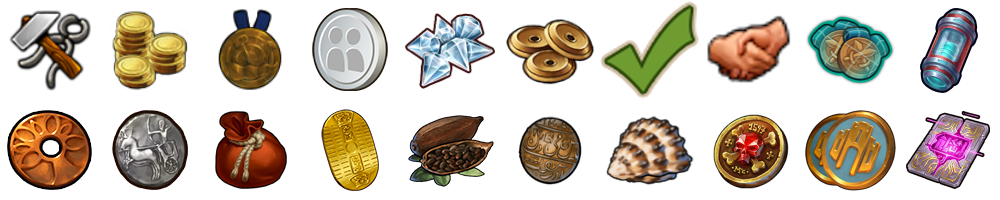
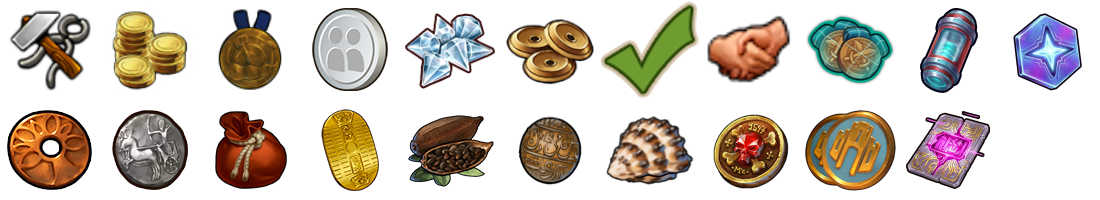
technologies - new tech handling

diff --git a/js/web/technologies/js/technologies.js b/js/web/technologies/js/technologies.js
@@ -289,63 +289,83 @@ let Technologies = {
 
 
     CalcBody: ()=> {
-        let h = [],
-            TechDict = [];
-
-        // Index aufbauen (Namen => Index)
-        for (let i = 1; i < Technologies.AllTechnologies.length; i++) {
-            TechDict[Technologies.AllTechnologies[i]['id']] = i;
-        }
-
-        // Look up researched tech
-        for (let node of Technologies.UnlockedTechnologies.unlockedNodes) {
-            if (!TechDict[node]) continue;
-            Technologies.AllTechnologies[TechDict[node]].isResearched = true;
-            Technologies.AllTechnologies[TechDict[node]]['currentSP'] = Technologies.AllTechnologies[TechDict[node]]['maxSP'];
-        }
-
-        // Teilweise erforscht
-        for (let i = 0; i < Technologies.UnlockedTechnologies['inProgressTechnologies'].length; i++) {
-            let InProgTech = Technologies.UnlockedTechnologies['inProgressTechnologies'][i];
-            let Index = TechDict[InProgTech['tech_id']];
-            Technologies.AllTechnologies[Index]['currentSP'] = InProgTech['currentSP'];
-        }
+        let h = [];
 
         // Count goods
-        let RequiredResources = [],
-            TechCount = 0;
-        for (let i = 1; i < Technologies.AllTechnologies.length; i++) {
-            let Tech = Technologies.AllTechnologies[i];
-            if (Tech['currentSP'] === undefined)
-            	Tech['currentSP'] = 0;
+        let RequiredResources = {},
+            BranchRessourcesMax = {},
+            TechCount = 0,
+            Techs = Object.assign({}, ...Technologies.AllTechnologies.map(x => ({[x.id]: x}))),
+            children = ['root'],
+            i = 0;
+            processedTechs = new Set();
+            inProgress = Object.assign({}, ...Technologies.UnlockedTechnologies.inProgressTechnologies.map(x => ({[x.tech_id]: x.researchCostPaid})));
 
-            //console.log(Tech.isResearched, Tech.id)
+        let processTech = (Tech, ressourceObject) => {
+            let EraID = Technologies.Eras[Tech['era']];
 
-            if (!Tech['isResearched'] && !Tech['isTeaser']) {
-                let EraID = Technologies.Eras[Tech['era']];
+            if (EraID < FH.CurrentEraID && Technologies.IgnorePrevEra) return ressourceObject; // Vorherige ZA ausblenden
+            if (EraID >= FH.CurrentEraID && Tech.childTechnologies?.length === 0 && Technologies.IgnoreCurrentEraOptional) return ressourceObject; // Aktuelles/zukünfiges ZA und optionale Technologie ausblenden
 
-                if (EraID < FH.CurrentEraID && Technologies.IgnorePrevEra) continue; // Vorherige ZA ausblenden
-                if (EraID >= FH.CurrentEraID && Tech.childTechnologies?.length === 0 && Technologies.IgnoreCurrentEraOptional) continue; // Aktuelles/zukünfiges ZA und optionale Technologie ausblenden
+            if (EraID >= FH.CurrentEraID && EraID <= Technologies.SelectedEraID) { // Alle Technologien voriger ZA und optionale Technologien ausblenden
 
-                if (EraID >= FH.CurrentEraID && EraID <= Technologies.SelectedEraID) { // Alle Technologien voriger ZA und optionale Technologien ausblenden
+                let res = Object.assign({}, Tech.researchCost?.resources || Tech.cost?.resources || {}, Tech.requirements?.resources || Tech.cost?.resources || {});
+                for (let [ResourceName,amount] of Object.entries(res)) {
+                    amount = amount - (inProgress?.[Tech.id]?.[ResourceName] || 0);
+                    ressourceObject[ResourceName] = (ressourceObject[ResourceName] || 0) + amount;
+                }
+                TechCount++;
+            }
+            return ressourceObject;
+        };
+        
+        while (i < children.length) {
+            let techId = children[i];
+            let Tech = Techs[techId];
+            if (processedTechs.has(Tech.id)) {
+                i++;
+                continue;
+            }
+            processedTechs.add(techId);
 
-                    if (RequiredResources.strategy_points === undefined)
-                    	RequiredResources.strategy_points = 0;
-
-                    if (Tech.researchCost?.resources?.strategy_points)
-                        RequiredResources.strategy_points += (Tech.researchCost.resources.strategy_points) - (Tech['currentSP']||0);
-                    let res = Tech.requirements?.resources || Tech.cost?.resources || {};
-                    for (let ResourceName in res) {
-                        if (!res.hasOwnProperty(ResourceName)) continue;
-                        if (RequiredResources[ResourceName] === undefined)
-                        	RequiredResources[ResourceName] = 0;
-
-                        RequiredResources[ResourceName] += res[ResourceName];
+            children.push(...(Tech.children||[]));
+            
+            if (!Technologies.UnlockedTechnologies.unlockedNodes.includes(techId) && 
+                !Tech.isTeaser && 
+                Tech.__class__ !== 'BranchChoiceCompositeNode') {
+                RequiredResources = processTech(Tech, RequiredResources);
+            } else if (Tech.__class__ == 'BranchChoiceCompositeNode') {
+                let branchRes = [];
+                for (let branch of Tech.branches) {
+                    let resSum = {};
+                    for (let Tech of branch.nodes) {
+                        if (!Technologies.UnlockedTechnologies.unlockedNodes.includes(Tech.id) &&
+                            !Tech['isTeaser'] && 
+                            Tech.__class__ !== 'BranchChoiceCompositeNode') {
+                            resSum = processTech(Tech, resSum);
+                        }
                     }
-
-                    TechCount++;
+                    branchRes.push(resSum);
+                }
+                if (branchRes.length > 0) {
+                    let minRes = Object.assign({}, ...branchRes);
+                    let maxRes = structuredClone(minRes);
+                    for (let ResourceName of Object.keys(minRes)) {
+                        for (let branch of branchRes) {
+                            minRes[ResourceName] = Math.min(minRes[ResourceName], branch[ResourceName]||0);
+                            maxRes[ResourceName] = Math.max(maxRes[ResourceName], branch[ResourceName]||0);
+                        }
+                    }
+                    for (let [ResourceName, amount] of Object.entries(minRes)) {
+                        if (amount > 0) {
+                            maxRes[ResourceName] -= amount;
+                            RequiredResources[ResourceName] = (RequiredResources[ResourceName] || 0) + amount;
+                        }
+                        BranchRessourcesMax[ResourceName] = (BranchRessourcesMax[ResourceName] || 0) + maxRes[ResourceName];
+                    }
                 }
             }
+            i++;
         }
 
         let PreviousEraID = Math.max(Technologies.SelectedEraID - 1, FH.CurrentEraID),
@@ -416,7 +436,7 @@ let Technologies = {
                 OutputList.push(FH.Goods.List[i]['id']);
             }
             OutputList.push('dark_matter');
-            for (let i = 105; i < FH.Goods.List.length; i++) {
+            for (let i = 105; i < 110; i++) {
                 OutputList.push(FH.Goods.List[i]['id']);
             }
             OutputList.push('stel_stellar_capacity');
@@ -435,13 +455,17 @@ let Technologies = {
                     let Stock = (ResourceName === 'strategy_points' ? StrategyPoints.AvailableFP : FH.RessourceStock[ResourceName]);
                     if (Stock === undefined) Stock = 0;
                     let Diff = Stock - Required;
+                    let DiffMax = Stock - (Required + (BranchRessourcesMax[ResourceName] || 0));
 
                     h.push('<tr>');
                     h.push('<td class="goods-image" style="width:25px"><span class="goods-sprite sprite-35 '+ FH.Goods.Data[ResourceName]['id'] +'"></span></td>');
                     h.push('<td>' + FH.Goods.Data[ResourceName]['name'] + '</td>');
-                    h.push('<td>' + FH.HTML.Format(Required) + '</td>');
+                    h.push('<td>' + FH.HTML.Format(Required) + (BranchRessourcesMax[ResourceName] ? ' - ' + FH.HTML.Format(Required + BranchRessourcesMax[ResourceName]) : '') + '</td>');
                     h.push('<td>' + FH.HTML.Format(Stock) + '</td>');
-                    h.push('<td class="text-right text-' + (Diff < 0 ? 'danger' : 'success') + '">' + FH.HTML.Format(Diff) + '</td>');
+                    h.push(`<td class="text-right">
+                                ${DiffMax < Diff ? `<span class="text-${DiffMax < 0 ? 'danger' : 'success'}"'>${FH.HTML.Format(DiffMax)}</span> - `:''}
+                                <span class="text-${Diff < 0 ? 'danger' : 'success'}"'>${FH.HTML.Format(Diff)}</span>
+                            </td>`);
                     h.push('</tr>');
                 }
             }

diff --git a/css/goods.css b/css/goods.css
@@ -1964,9 +1964,10 @@ styles for extra-goods.png - manually created!!!!
 .goods-sprite.castle_points::before,
 .goods-sprite.doubloons::before,
 .goods-sprite.stel_stellar_capacity::before, 
-.goods-sprite.stel_mission_reward_encoded_tablets::before {
+.goods-sprite.stel_mission_reward_encoded_tablets::before,
+.goods-sprite.stel_stellar_points::before  {
 	background: url('../images/goods/goods-extra.png') top left no-repeat;
-	background-size: 640px 128px;
+	background-size: 704px 128px;
 	width: 64px;
 	height: 64px;
 }
@@ -2029,4 +2030,7 @@ styles for extra-goods.png - manually created!!!!
 }
 .goods-sprite.stel_mission_reward_encoded_tablets::before{
 	background-position: -576px -64px;
+}
+.goods-sprite.stel_stellar_points::before {
+	background-position: -640px 0;
 }
